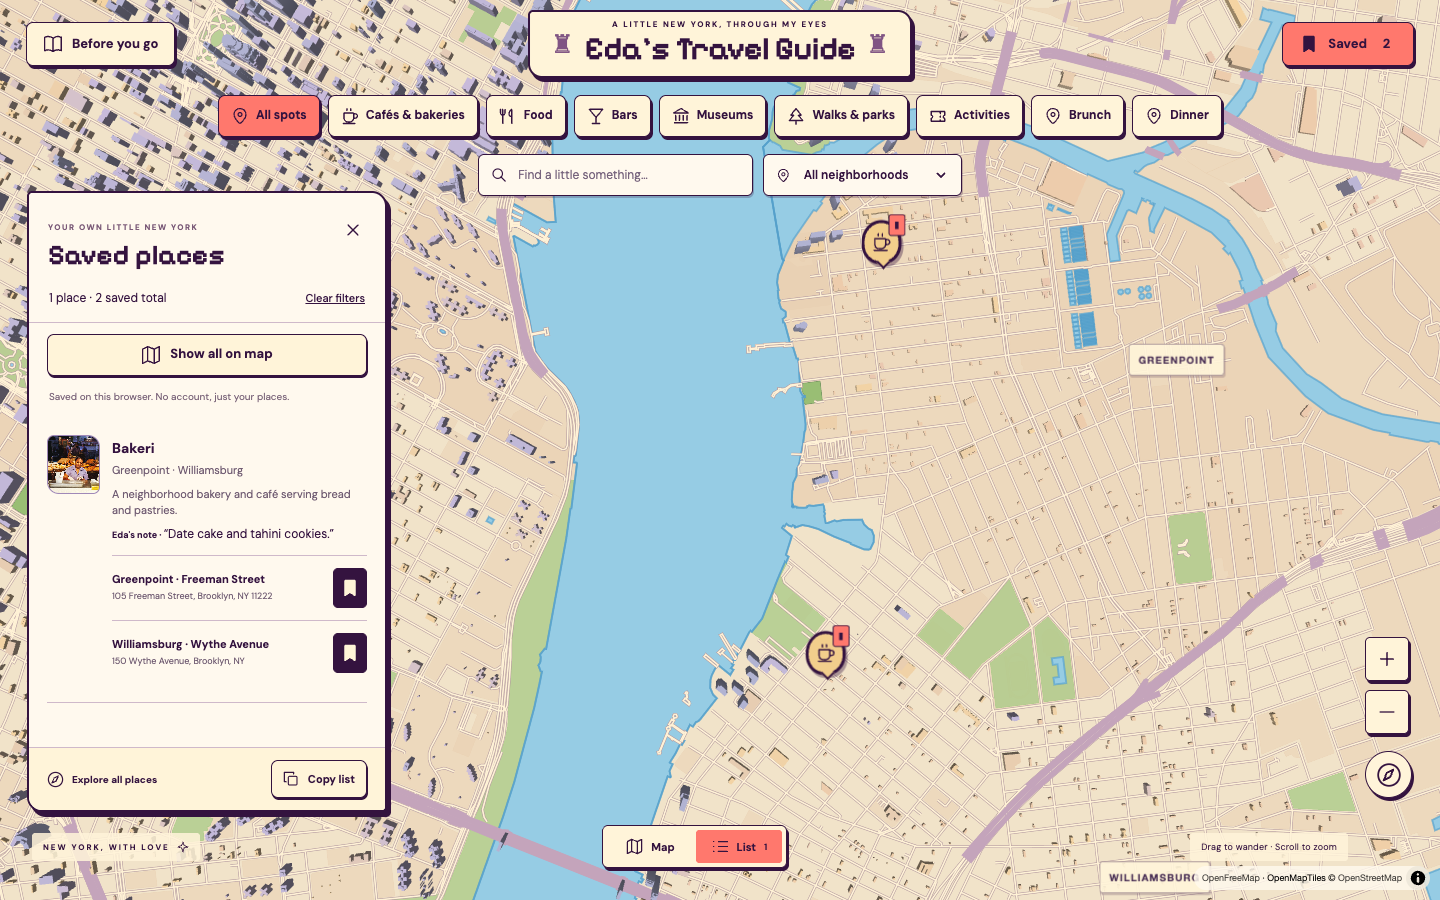
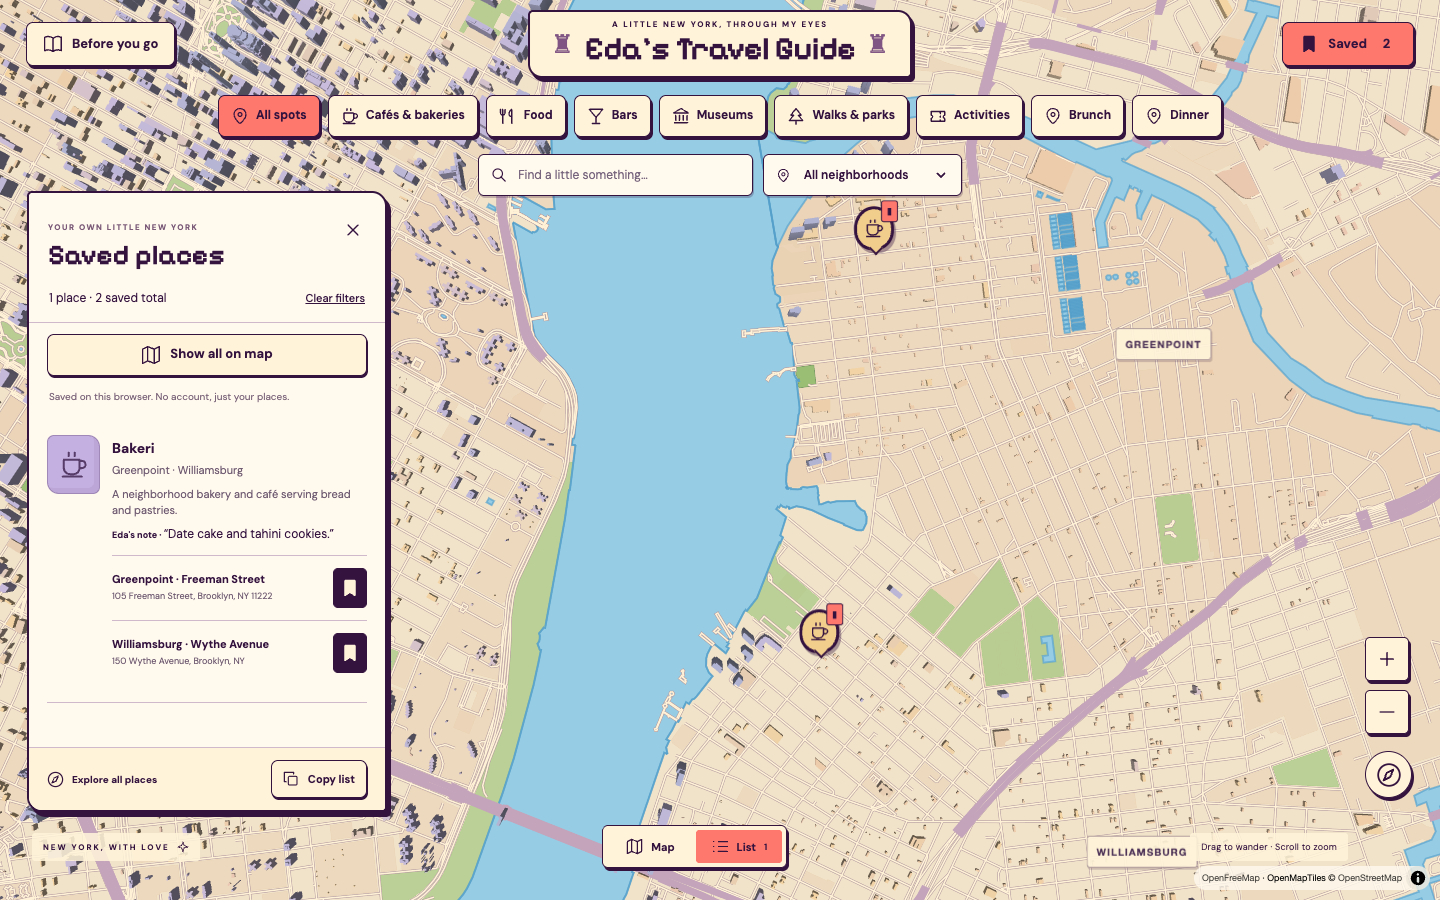
Use openly licensed photos for public deployment
Honor the owner's publication choice by excluding 18 unconfirmed photos
from public assets and retaining 32 licensed photos with illustration
fallbacks. Verify every fallback, branch saving and packaged assets.

Changed region(s): [[0.0, 0.0, 1.0, 1.0]]

diff --git a/tests/photos.test.ts b/tests/photos.test.ts
@@ -1,8 +1,8 @@
 import test from 'node:test';
 import assert from 'node:assert/strict';
-import {existsSync,statSync} from 'node:fs';
+import {existsSync,readdirSync,statSync} from 'node:fs';
 import {entries,locations} from '../src/data/content';
 import {defaultLocation} from '../src/lib';
 import {photos,photoFor} from '../src/PlacePhoto';
-test('verified photo assets have provenance; unresolved places keep an honest fallback',()=>{const unresolved=entries.filter(e=>!photoFor(e.id,defaultLocation(e)?.id)).map(e=>e.id);assert(unresolved.every(id=>['chez-ma-tante','fish-cheeks','raouls'].includes(id)),`unexpected missing photos: ${unresolved}`);for(const [id,photo] of Object.entries(photos)){assert(entries.some(e=>e.id===id)||locations.some(l=>l.id===id),`known entry or branch ${id}`);assert.match(photo.src,/^\/images\/places\/[^/]+\.(jpg|jpeg|png|webp)$/);assert(photo.alt.length>12);assert(photo.credit);assert.match(photo.sourceUrl,/^https:\/\//);const asset=new URL('../public'+photo.src,import.meta.url);assert(existsSync(asset),`local photo exists: ${id}`);assert(statSync(asset).size>1000);}});
-test('Bakeri branch fallback is brand-neutral rather than another branch frontage',()=>{const e=entries.find(e=>e.id==='bakeri')!;for(const l of e.resolvedLocations)assert(photoFor(e.id,l.id));if(photos.bakeri)assert.doesNotMatch(photos.bakeri.alt,/Freeman Street|Wythe Avenue|Greenpoint branch|Williamsburg branch/i);});
+test('only openly licensed photo assets ship; other places retain illustration fallbacks',()=>{const unresolved=entries.filter(e=>!photoFor(e.id,defaultLocation(e)?.id)).map(e=>e.id);assert.deepEqual(unresolved.sort(),['apollo-bagels','bakeri','bar-pisellino','beco','caffe-panna','chez-ma-tante','comedy-cellar','dante','fish-cheeks','lindustrie-pizzeria','los-tacos-no-1','oscar-wilde','radio-bakery','raouls','rule-of-thirds','taqueria-ramirez','thai-diner','tompkins-square-bagels','westlight','xian-famous-foods'].sort());assert.equal(Object.keys(photos).length,32);assert.deepEqual(readdirSync(new URL('../public/images/places/',import.meta.url)).sort(),Object.values(photos).map(p=>p.src.split('/').at(-1)!).sort());for(const [id,photo] of Object.entries(photos)){assert(entries.some(e=>e.id===id)||locations.some(l=>l.id===id),`known entry or branch ${id}`);assert.match(photo.src,/^\/images\/places\/[^/]+\.(jpg|jpeg|png|webp)$/);assert(photo.alt.length>12);assert(photo.credit);assert.match(photo.sourceUrl,/^https:\/\//);assert.match(photo.license??'',/^CC (BY(?:-SA)? [1-4]\.0)|^CC0 1\.0/);const asset=new URL('../public'+photo.src,import.meta.url);assert(existsSync(asset),`local photo exists: ${id}`);assert(statSync(asset).size>1000);}});
+test('both Bakeri branches use illustrations rather than unconfirmed or wrong-branch photos',()=>{const e=entries.find(e=>e.id==='bakeri')!;for(const l of e.resolvedLocations)assert.equal(photoFor(e.id,l.id),undefined);});

diff --git a/docs/IMPLEMENTATION_NOTES.md b/docs/IMPLEMENTATION_NOTES.md
@@ -8,4 +8,4 @@ The custom palette uses OpenFreeMap/OpenMapTiles and OpenStreetMap geography. No
 
 Saved entries share canonical IDs across map/list/detail, validate localStorage, recover corrupt shapes and sync cross-tab through storage events. Last successful write wins. Denied storage keeps in-memory saves with a warning. Map failure leaves the list usable; clipboard denial presents copyable text. Directions use the researched address, not the visitor's location.
 
-Known limitations: most brands still have one researched branch, not an exhaustive branch directory; broad routes do not provide turn-by-turn geometry. Fifty entries have real local photos with source credits; Chez Ma Tante and Raoul's retain illustration fallbacks. Official-website photos are not represented as openly licensed; review reuse rights before public deployment. Overview buildings remain sampled and bounded, and public map tiles have no SLA. Production JS is about1.55MB (437.3KB gzip), plus the519.6KB map worker. Existing history tracks node_modules; generated dependency noise was not cleaned or included in these updates. The original unused malformed Header is outside the application/typecheck graph. No deployment was requested.
+Known limitations: most brands still have one researched branch, not an exhaustive branch directory; broad routes do not provide turn-by-turn geometry. Thirty-two entries have openly licensed real local photos with source credits;20 use original category illustrations. Before the requested Vercel deployment, the owner chose licensed photos only:18 unconfirmed official-site photographs were removed from public assets. Overview buildings remain sampled and bounded, and public map tiles have no SLA. Production JS is about1.55MB (436.2KB gzip), plus the519.6KB map worker. Existing history tracks node_modules; generated dependency noise was not cleaned or included in these updates. The original unused malformed Header is outside the application/typecheck graph.

diff --git a/THIRD_PARTY_NOTICES.md b/THIRD_PARTY_NOTICES.md
@@ -8,7 +8,7 @@ DM Sans and Pixelify Sans are bundled from Fontsource under the SIL Open Font Li
 
 ## Place photographs
 
-`src/data/place-photos.json` and `src/data/area-photos.json` record the source, credit and license status for50 local photographs under `public/images/places/`. Wikimedia images retain their stated licenses; displayed images may be resized, JPEG-compressed and cropped. Credits and available license links appear on detail cards. Official-website photographs remain copyrighted by their respective rights holders and have no claimed open license; review reuse permissions before public deployment.
+`src/data/place-photos.json` and `src/data/area-photos.json` record the source, credit and license status for32 openly licensed local photographs under `public/images/places/`. Wikimedia images retain their stated licenses; displayed images may be resized, JPEG-compressed and cropped. Credits and license links appear on detail cards. Per the owner's publication choice, photographs without confirmed reuse permission are excluded from public assets and the affected entries use original category illustrations.
 
 ## Waldo Stripes Soft reference snapshots
 
